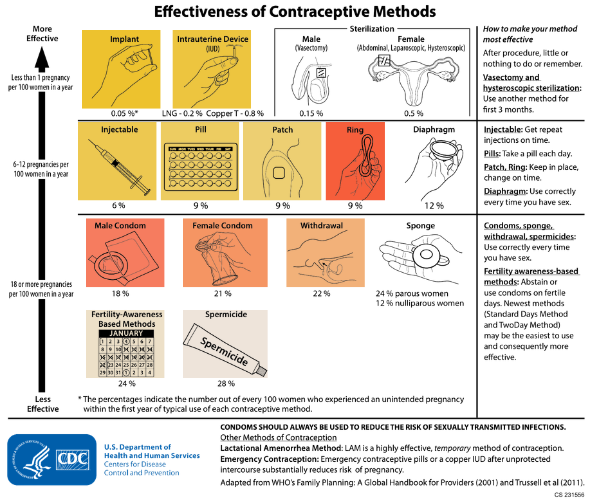
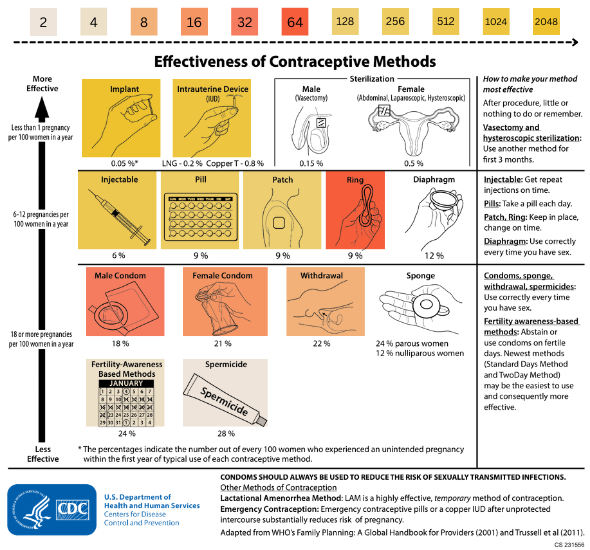
new photos

diff --git a/docs/index.html b/docs/index.html
@@ -10,7 +10,8 @@
 <div id="page">
 
     <div id="header">
-        <h1 id="title">2048</h1>
+        <h1 id="title">
+            2048</h1>
 
         <div id="instructions">
             Use the arrow keys to move the tiles. Combine matching methods to reach 2048!
@@ -21,6 +22,21 @@
             <div id="score-value">0</div>
         </div>
     </div>
+
+    <div id="disclaimer">
+        <h2 id="disclaimerParagraph">
+            Educational Disclaimer:</h2>
+
+        <div id="educationParagraph">
+            This game is meant to increase awareness of various contraceptives. Although properly combining some
+            contraceptives can increase effectiveness, the combinations represented in this game are not meant to
+            serve as reccomendations. The percentages displayed on the graphics are failure rates. This means a higher
+            percentage indicates a less effective contraceptive. The ranking of tiles in this game reflects these percentages,
+            but effectiveness is not the only factor when choosing contraceptives. For more information on contraceptives,
+            their effectiveness, and to learn what might work best for you visit https://www.cdc.gov/contraception/about/index.html.
+        </div>
+    </div>
+
 
     <div id="game-container">
         <div id="game-area">
